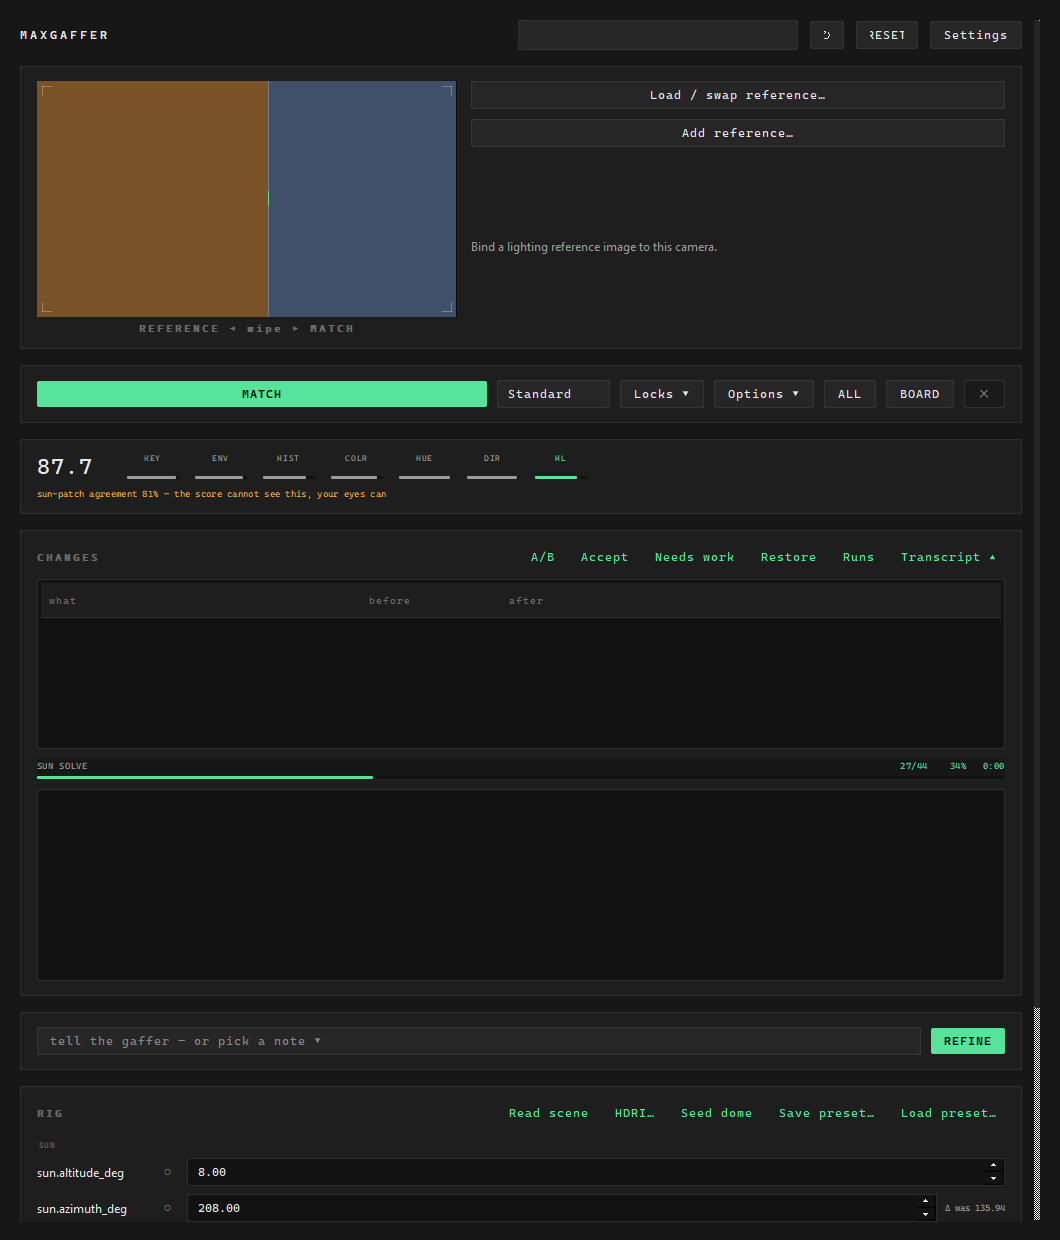
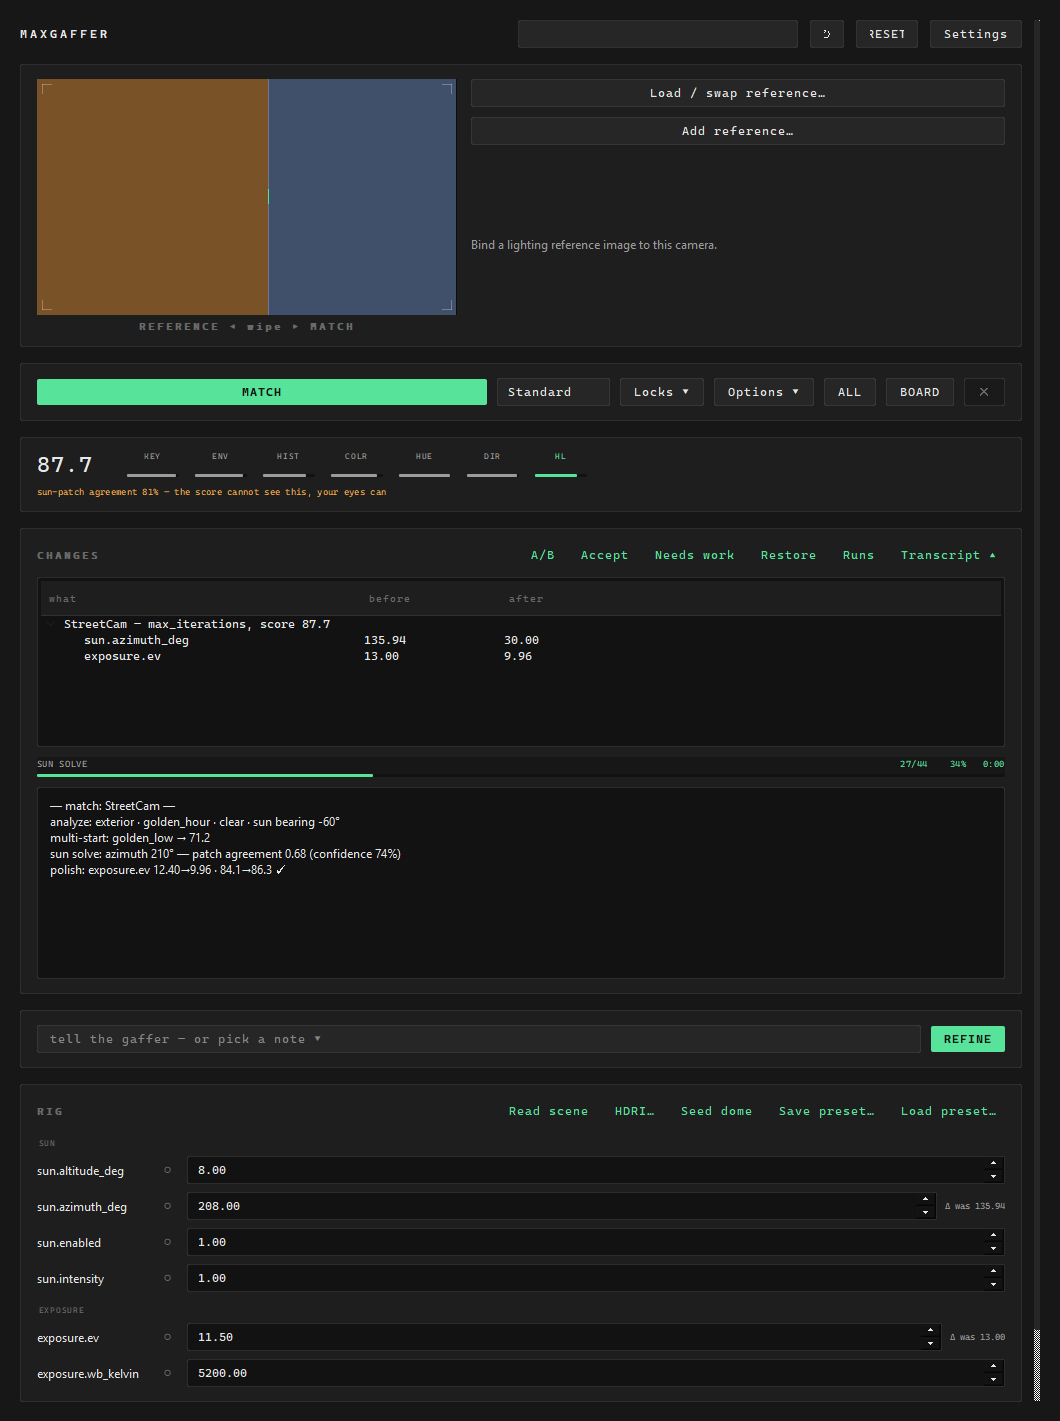
chore: snapshot shows the full mid-session dock — transcript, changes, grouped rig with delta chips

diff --git a/tests/test_ui_snapshot.py b/tests/test_ui_snapshot.py
@@ -51,8 +51,19 @@ def test_snapshot_dock_mid_session(monkeypatch, tmp_path):
     d.plate._split = 0.55
     d._progress_begin("sun solve")
     d._on_match_progress("sun solve", 27, 44, 34.8)
+    for line in ("— match: StreetCam —",
+                 "analyze: exterior · golden_hour · clear · sun bearing -60°",
+                 "multi-start: golden_low → 71.2",
+                 "sun solve: azimuth 210° — patch agreement 0.68 (confidence 74%)",
+                 "polish: exposure.ev 12.40→9.96 · 84.1→86.3 ✓"):
+        d._log(line)
+    d._fill_changes(None, [{"prop": "sun.azimuth_deg", "before": "135.94",
+                            "after": "30.00"},
+                           {"prop": "exposure.ev", "before": "13.00",
+                            "after": "9.96"}],
+                    "StreetCam — max_iterations, score 87.7")
 
-    d.resize(1060, 1240)
+    d.resize(1060, 1720)
     d.show()
     app.processEvents()
     os.makedirs(OUT, exist_ok=True)
